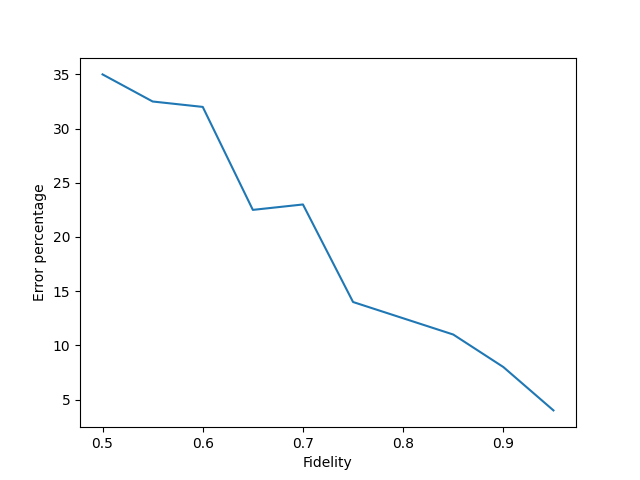
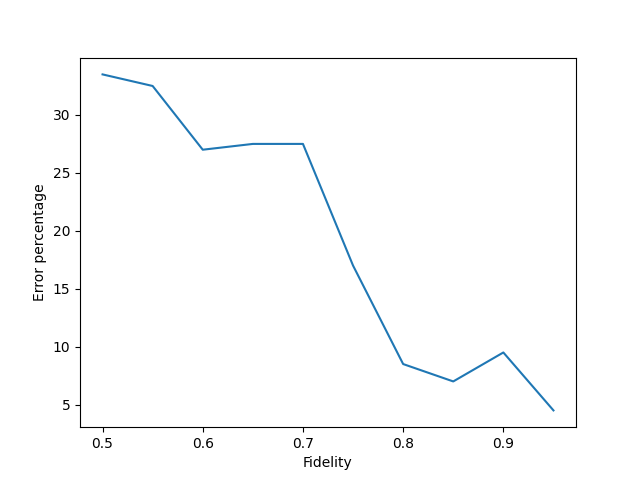
* Moved builders and configs form blueprint folder to netsquid-magic

diff --git a/blueprint/run.py b/blueprint/run.py
@@ -7,10 +7,11 @@ import netsquid as ns
 
 from blueprint.clinks.default import DefaultCLinkBuilder
 from blueprint.clinks.instant import InstantCLinkBuilder
-from blueprint.links.depolarise import DepolariseLinkBuilder
-from blueprint.links.heralded import HeraldedLinkBuilder
+from netsquid_magic.models.depolarise import DepolariseLinkBuilder
+from netsquid_magic.models.heralded_single_click import HeraldedSingleClickLinkBuilder
+from netsquid_magic.models.heralded_double_click import HeraldedDoubleClickLinkBuilder
 from blueprint.links.nv import NVLinkBuilder
-from blueprint.links.perfect import PerfectLinkBuilder
+from netsquid_magic.models.perfect import PerfectLinkBuilder
 from blueprint.network_builder import NetworkBuilder
 from blueprint.protocol_base import BlueprintProtocol
 from blueprint.qdevices.generic import GenericQDeviceBuilder
@@ -31,7 +32,8 @@ def get_default_builder() -> NetworkBuilder:
     # default link models registration
     builder.register_link("perfect", PerfectLinkBuilder)
     builder.register_link("depolarise", DepolariseLinkBuilder)
-    builder.register_link("heralded", HeraldedLinkBuilder)
+    builder.register_link("heralded-single-click", HeraldedSingleClickLinkBuilder)
+    builder.register_link("heralded-double-click", HeraldedDoubleClickLinkBuilder)
     builder.register_link("nv", NVLinkBuilder)
 
     # default clink models registration

diff --git a/blueprint_examples/test_models/run_simulation.py b/blueprint_examples/test_models/run_simulation.py
@@ -1,0 +1,36 @@
+import netsquid as ns
+
+from blueprint.run import run, get_default_builder
+from netsquid_abstractmodel.abstract_node import AbstractQdeviceBuilder
+from blueprint.base_configs import StackNetworkConfig
+from protocols import AliceProtocol, BobProtocol
+
+ns.set_qstate_formalism(ns.QFormalism.DM)
+# Load network config
+for config_file in ["abstract_node.yaml", "heralded_double_click.yaml", "heralded_single_click.yaml"]:
+    print(f"\n{config_file}\n")
+    cfg = StackNetworkConfig.from_file(config_file)
+
+    # Build network
+    builder = get_default_builder()
+    builder.register_qdevice("abstract", AbstractQdeviceBuilder)
+    network = builder.build(cfg)
+
+    # create protocols for end nodes
+    alice = AliceProtocol()
+    bob = BobProtocol()
+
+    sim_stats = run(network, {"Alice": alice, "Bob": bob})
+
+    # Look at results
+    qubit_alice = network.nodes["Alice"].qdevice.peek(0)[0]
+    qubit_bob = network.nodes["Bob"].qdevice.peek(0)[0]
+
+    print(ns.qubits.qubitapi.reduced_dm(qubit_alice.qstate.qubits))
+
+    reference_state = ns.qubits.ketstates.b00
+    fidelity = ns.qubits.qubitapi.fidelity([qubit_alice, qubit_bob], reference_state)
+    print(fidelity)
+
+    print(sim_stats)
+

diff --git a/tutorial_examples/temp_multi_node/run_simulation.py b/tutorial_examples/temp_multi_node/run_simulation.py
@@ -1,13 +1,12 @@
 from application import ServerProgram, ClientProgram
-from blueprint.base_configs import StackNetworkConfig
-from blueprint.links.perfect import PerfectLinkConfig
+from netsquid_magic.models.perfect import PerfectLinkConfig
 from blueprint.clinks.default import DefaultCLinkConfig
 from squidasm.run.stack.run import run
 from blueprint_examples.network_generation import create_multi_node_network
 
 num_nodes = 6
 # import network configuration from file
-cfg = create_multi_node_network(num_nodes, "perfect", PerfectLinkConfig(),
+cfg = create_multi_node_network(num_nodes, "perfect", PerfectLinkConfig(state_delay=100),
                                 clink_typ="default", clink_cfg=DefaultCLinkConfig(delay=100))
 
 node_names = [stack.name for stack in cfg.stacks]

diff --git a/blueprint_examples/example_2/run_simulation.py b/blueprint_examples/example_2/run_simulation.py
@@ -3,10 +3,10 @@ import numpy as np
 from matplotlib import pyplot
 
 from blueprint.base_configs import StackNetworkConfig
-from blueprint.links.depolarise import DepolariseLinkConfig
+from netsquid_magic.models.depolarise import DepolariseLinkConfig
 from blueprint_examples.network_generation import create_2_node_network
 from protocols import AliceProtocol, BobProtocol
-from blueprint import run, get_default_builder
+from blueprint.run import run, get_default_builder
 
 ns.set_qstate_formalism(ns.QFormalism.DM)
 builder = get_default_builder()

diff --git a/blueprint_examples/example_4/run_simulation.py b/blueprint_examples/example_4/run_simulation.py
@@ -1,11 +1,11 @@
 from blueprint.base_configs import StackNetworkConfig
-from blueprint import run, get_default_builder
+from blueprint.run import run, get_default_builder
 from protocols import AliceProtocol, BobProtocol
 import squidasm
 
 squidasm.SUPER_HACKY_SWITCH = True
 
-cfg = StackNetworkConfig.from_file("config_heralded_static.yaml")
+cfg = StackNetworkConfig.from_file("config_heralded_fifo.yaml")
 num_epr_pairs = 3
 
 builder = get_default_builder()

diff --git a/blueprint_examples/example_3/run_simulation.py b/blueprint_examples/example_3/run_simulation.py
@@ -1,8 +1,8 @@
 import netsquid as ns
 
-from blueprint.links.perfect import PerfectLinkConfig
+from netsquid_magic.models.perfect import PerfectLinkConfig
 from blueprint.clinks.default import DefaultCLinkConfig
-from blueprint import run, get_default_builder
+from blueprint.run import run, get_default_builder
 from blueprint_examples.network_generation import create_multi_node_network
 from protocols import ServerProtocol, ClientProtocol
 

diff --git a/blueprint_examples/example_1/run_simulation.py b/blueprint_examples/example_1/run_simulation.py
@@ -1,6 +1,6 @@
 import netsquid as ns
 
-from blueprint import run, get_default_builder
+from blueprint.run import run, get_default_builder
 from blueprint.base_configs import StackNetworkConfig
 from protocols import AliceProtocol, BobProtocol
 

diff --git a/blueprint/links/__init__.py b/blueprint/links/__init__.py
@@ -1,3 +1,1 @@
-from .depolarise import DepolariseLinkConfig
-from .heralded import HeraldedLinkConfig
 from .nv import NVLinkConfig
